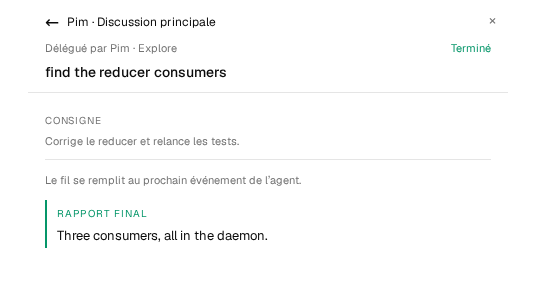
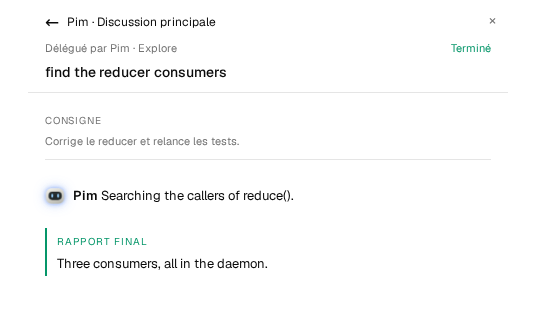
test(overlay): the helper capture shows a helper message
The helper view now receives its own messages, so the screenshot fixture
carries one and the thread and helper captures are retaken.

diff --git a/apps/overlay/e2e/screenshots.spec.ts b/apps/overlay/e2e/screenshots.spec.ts
@@ -138,6 +138,7 @@ for (const theme of ['dark', 'light'] as const) {
       d.emit({ type: 'session.thread', id: 'pim', items: [
         { kind: 'prompt', id: 'prompt-1', at: at(0), turn: 1, text: 'Corrige le reducer et relance les tests.' },
         { kind: 'helper', id: 'h1', at: at(1), turn: 1, task: 'find the reducer consumers', agentType: 'Explore', state: 'exited' },
+        { kind: 'message', id: 'msg-h1', at: at(1.5), turn: 1, helperId: 'h1', text: 'Searching the callers of reduce().' },
         { kind: 'reply', id: 'report-h1', at: at(2), turn: 1, helperId: 'h1', text: 'Three consumers, all in the daemon.' },
         { kind: 'message', id: 'msg-1', at: at(3), turn: 1, text: 'Je corrige la transition puis je relance la suite.' },
         { kind: 'tool', id: 'toolu_1', at: at(4), turn: 1, tool: 'Edit', label: 'Edit · state.ts', status: 'success', durationMs: 120, files: [{ path: 'packages/ledge/src/daemon/state.ts', change: 'edit', diff: '- if (ev.name === "Stop") return s;\n+ if (ev.name === "Stop") return { ...s, state: "idle" };' }] },
@@ -147,6 +148,7 @@ for (const theme of ['dark', 'light'] as const) {
       await shoot(page, `session-thread-${theme}`);
       await layer(page, 'session').locator('[data-helper]').click();
       await expectMode(page, 'helper');
+      await expect(page.getByText('Searching the callers of reduce().')).toBeVisible();
       await shoot(page, `session-helper-${theme}`);
     });
 
